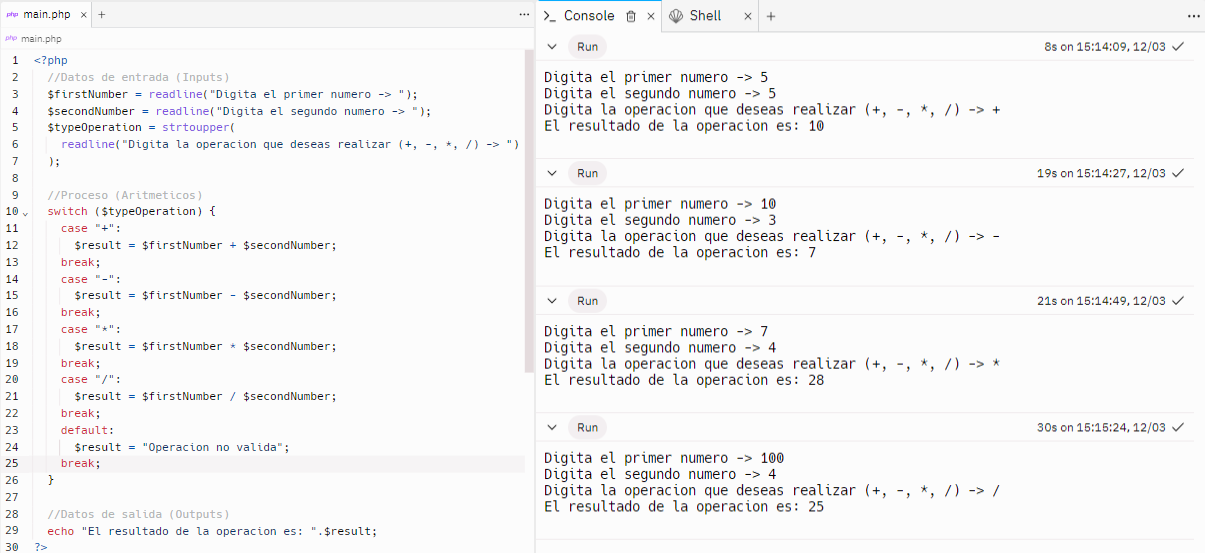
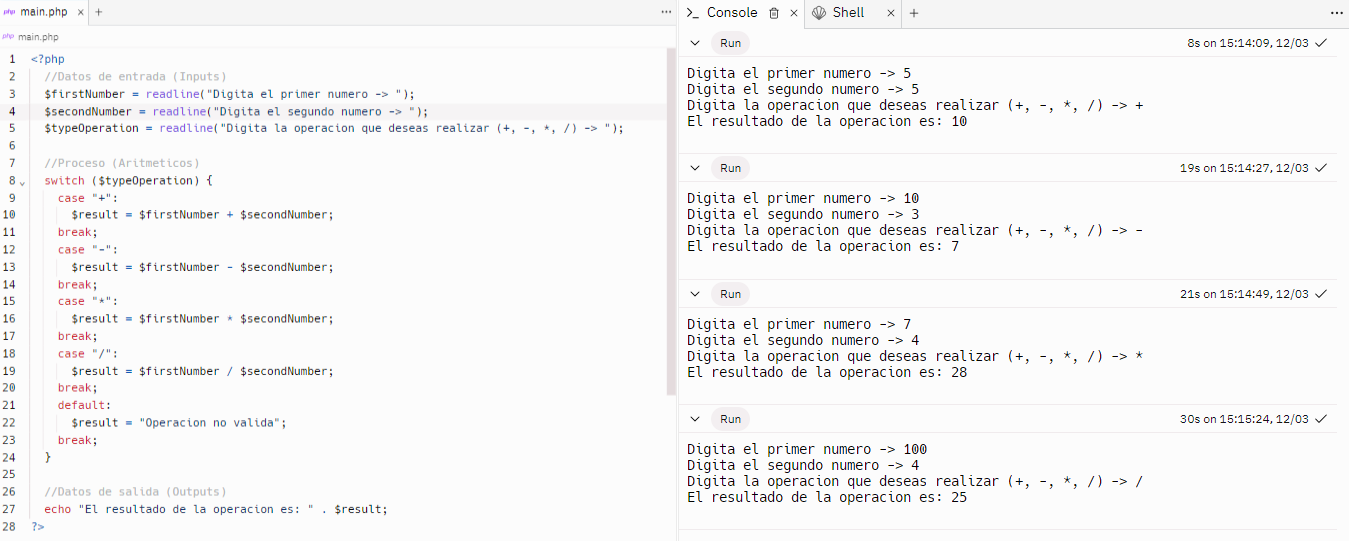
Punto 8 terminado

diff --git a/punto-8/index.php b/punto-8/index.php
@@ -1,0 +1,30 @@
+<?php
+  // DEDINICION DE VARIABLES
+  const TICKET_PAY = 25000;
+
+  // PROCESO
+  $personNumber = readline("DIGITE EL NUMERO DE PESONAS QUE ENTRAN A LA BOLERA -> ");
+  $membershipType = readline("DIGITE EL TIPO DE MEMBRESIA -> ");
+
+  $totalPay = $personNumber * TICKET_PAY;
+
+  switch (strtoupper($membershipType)) {
+    case "A":
+      $totalPay *= 0.7;
+    break;
+    case "B":
+      $totalPay *= 0.75;
+    break;
+    case "C":
+      $totalPay *= 0.9;
+    break;
+    case "D":
+      $totalPay *= 0.95;
+    break;
+    default: 
+      echo "\nLO SENTIMOS, USTED NO CUENTA CON NINGUN TIPO DE MEMBRESIA\n";
+    break;
+  }
+
+  echo "\nEL TOTAL A PAGAR ES $" . number_format($totalPay);
+?>

diff --git a/punto-7/index.php b/punto-7/index.php
@@ -2,7 +2,7 @@
   //Datos de entrada (Inputs)
   $firstNumber = readline("Digita el primer numero -> ");
   $secondNumber = readline("Digita el segundo numero -> ");
-  $typeOperation = strtoupper(readline("Digita la operacion que deseas realizar (+, -, *, /) -> "));
+  $typeOperation = readline("Digita la operacion que deseas realizar (+, -, *, /) -> ");
 
   //Proceso (Aritmeticos)
   switch ($typeOperation) {

diff --git a/README.md b/README.md
@@ -26,6 +26,8 @@
 <img src="./public/images/punto_7.png" alt="Punto 7">
 
 <h2>Punto 8: Entrada de bolera usando switch</h2>
+<img src="./public/images/8.png" alt="Punto 8">
+
 <h2>Punto 9: Tabla de multiplicar usando while</h2>
 <h2>Punto 10: Números pares usando while</h2>
 <h2>Punto 11: Números impares usando for</h2>
